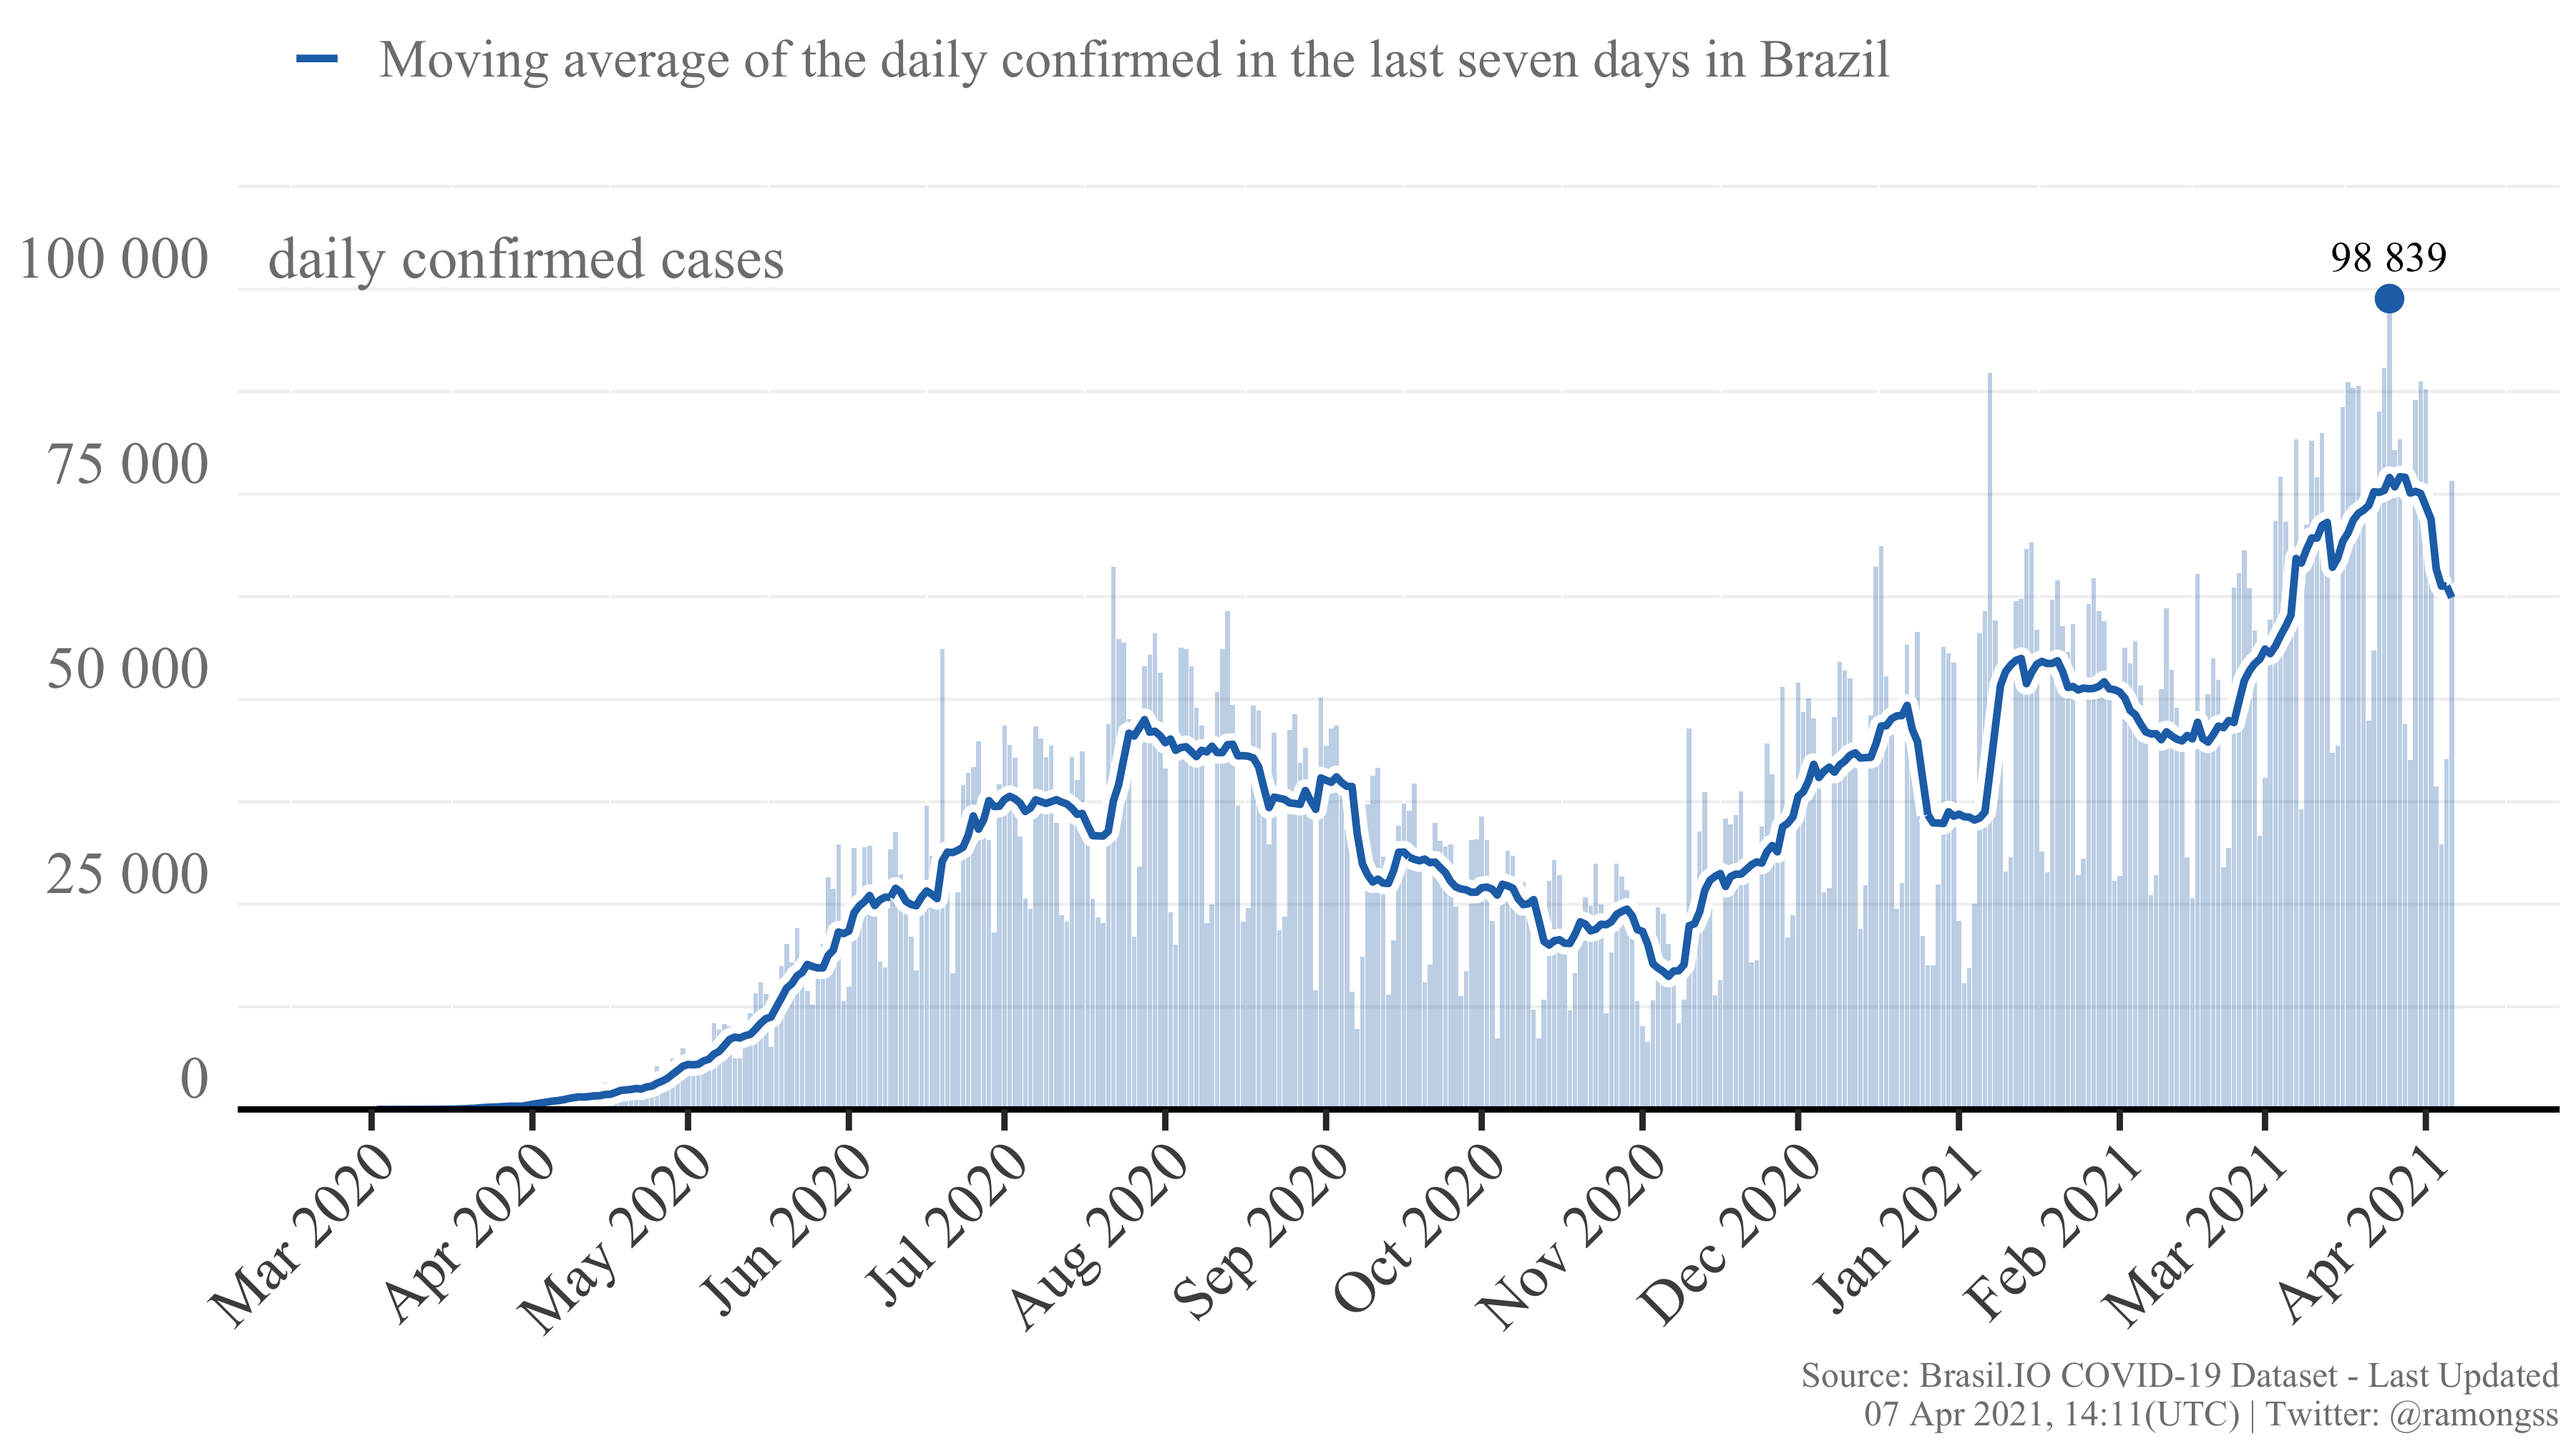
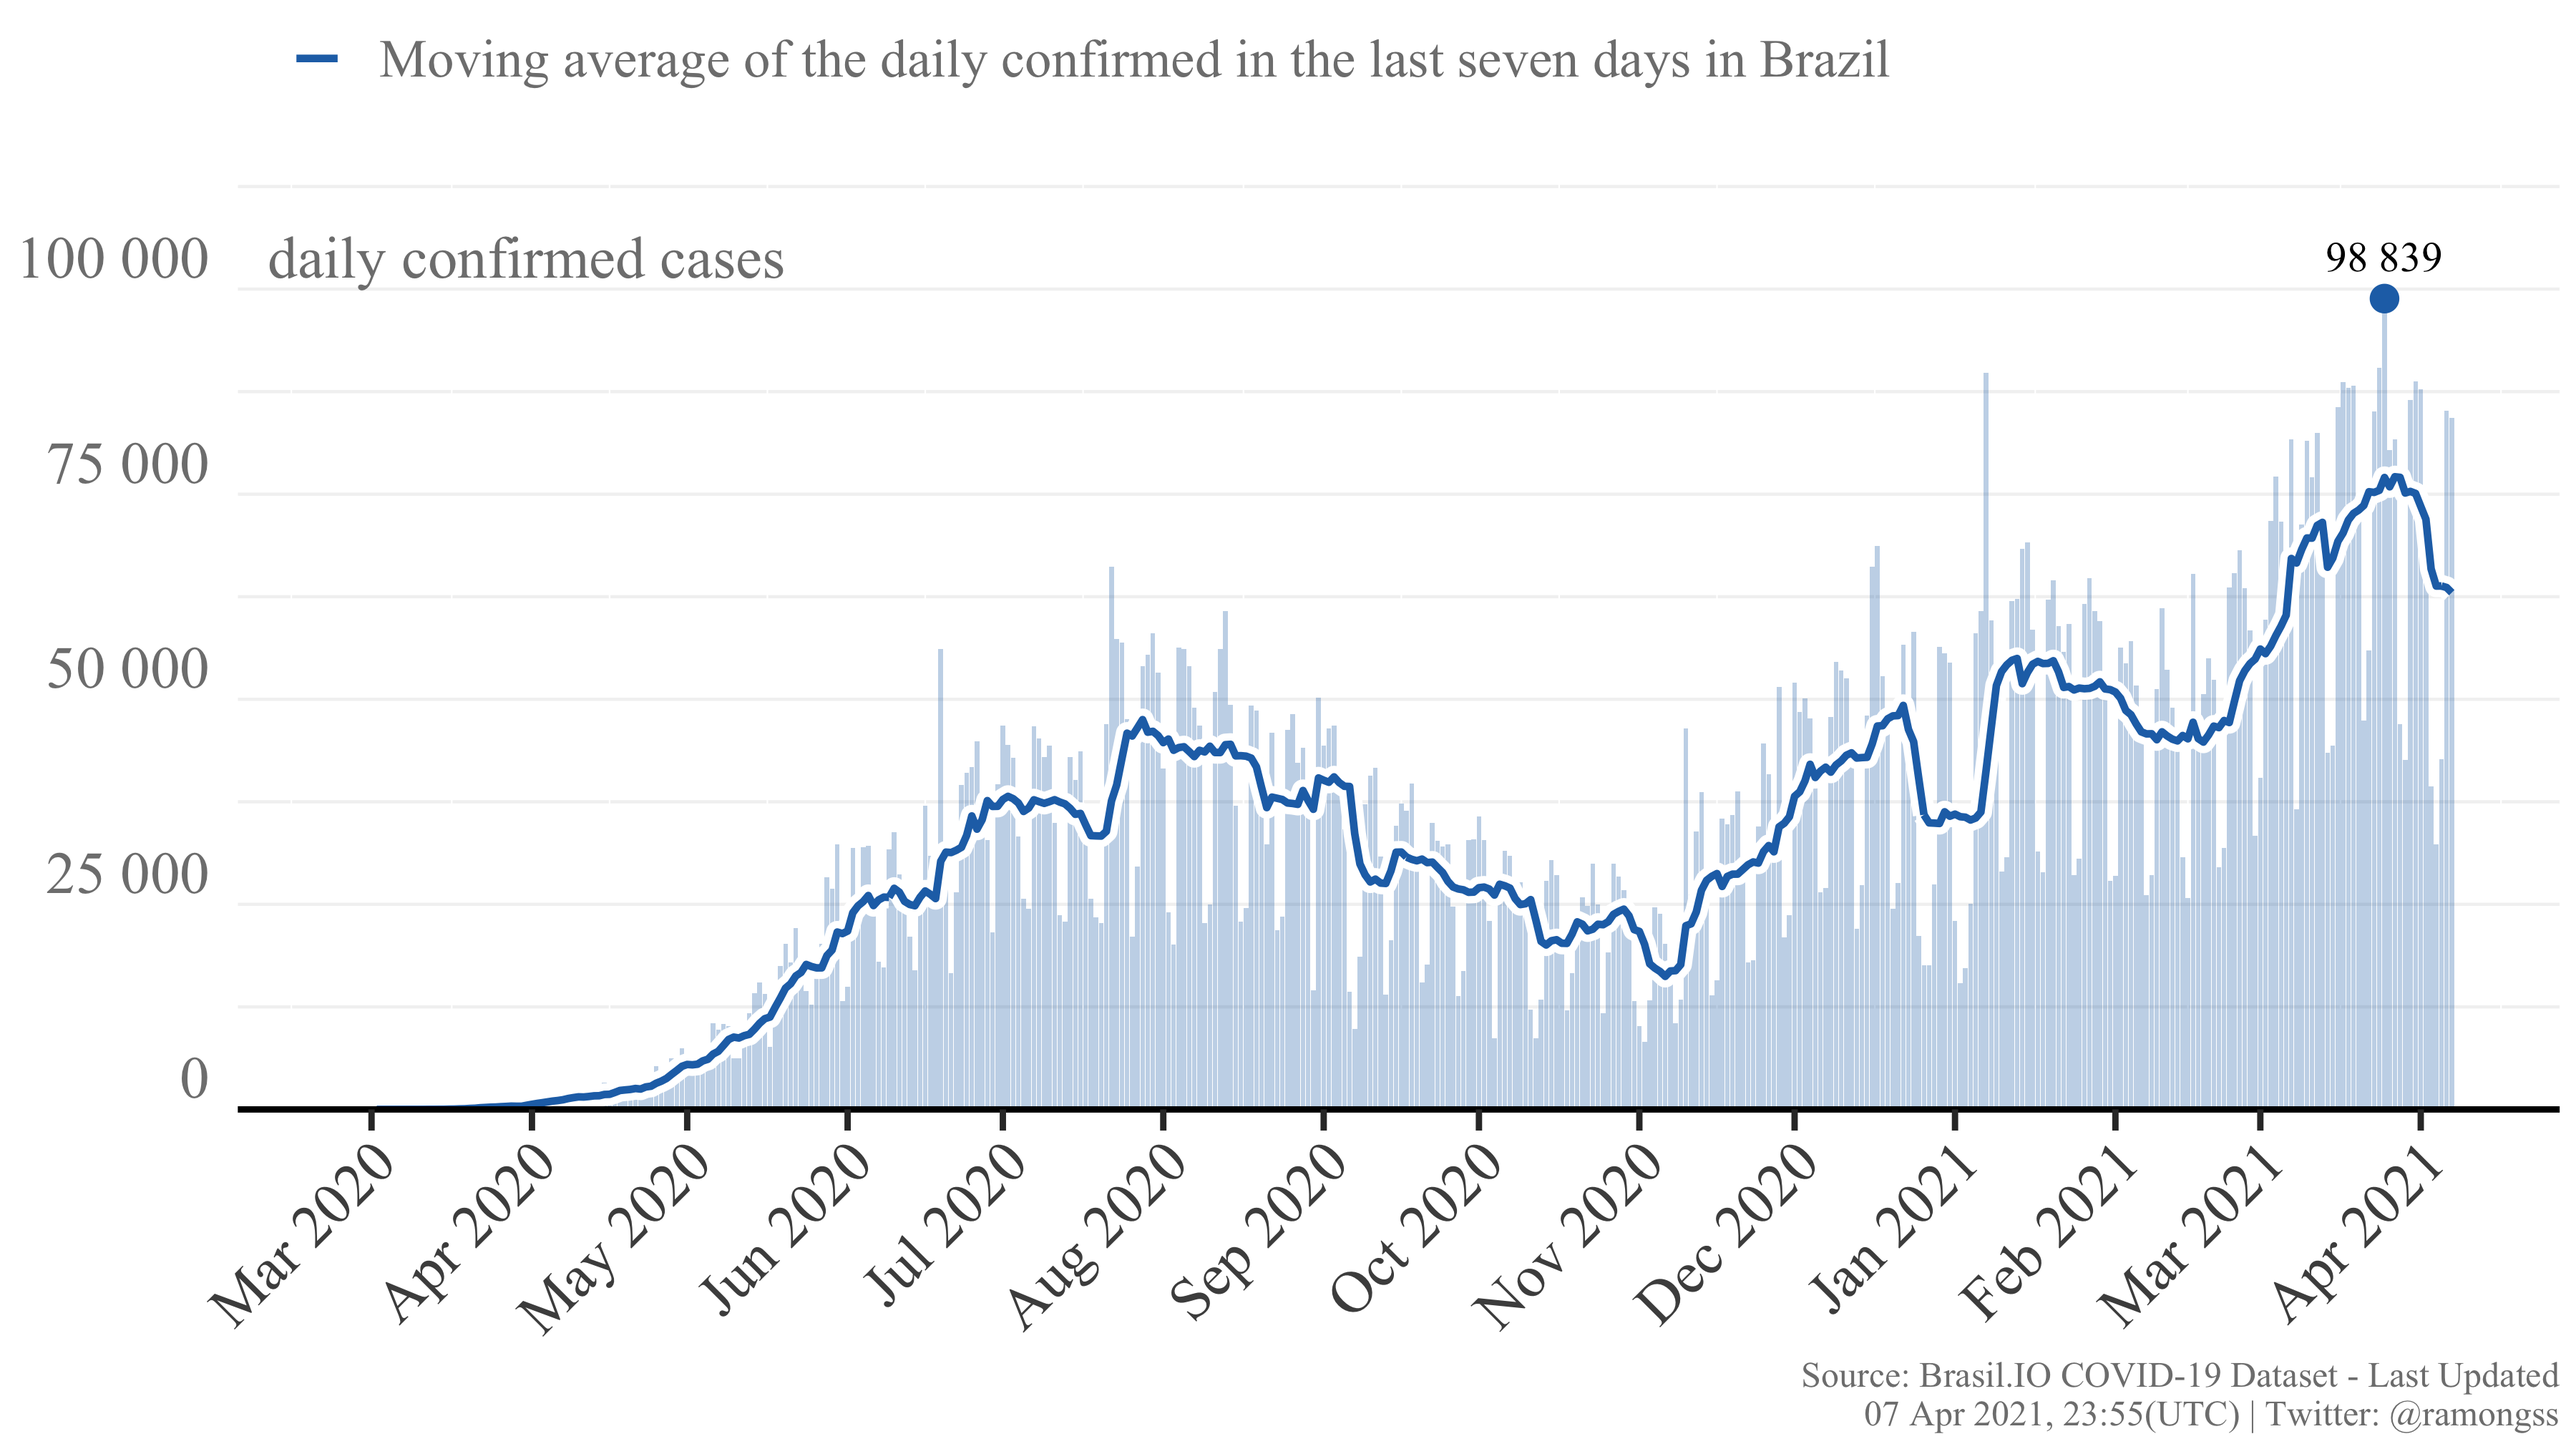
Re-build README.Rmd

diff --git a/README.md b/README.md
@@ -27,8 +27,8 @@ download_brasilio_table <- function(dataset = "covid19", table_name){
 
 ## COVID-19 Confirmed cases
 
-Currently, Brazil has a total of **13,111,454** confirmed cases at **06
-Apr, 2021**, with **76,587** new confirmed cases. The daily maximum
+Currently, Brazil has a total of **13,204,334** confirmed cases at **07
+Apr, 2021**, with **84,315** new confirmed cases. The daily maximum
 incidence was **98,839** confirmed cases at **25 Mar, 2021**. Here
 follows the Figure showing the confirmed case incidence as the bars, and
 the line as the moving average of the last 7 days.
@@ -37,9 +37,9 @@ the line as the moving average of the last 7 days.
 
 ## COVID-19 Deaths
 
-Currently, Brazil has a total of **337,369** deaths at **06 Apr, 2021**,
-with **3,722** new deaths. The daily maximum deaths incidence was
-**3,925** deaths at **31 Mar, 2021**. Here follows the Figure showing
+Currently, Brazil has a total of **341,247** deaths at **07 Apr, 2021**,
+with **3,522** new deaths. The daily maximum deaths incidence was
+**4,068** deaths at **06 Apr, 2021**. Here follows the Figure showing
 the deaths incidence as the bars, and the line as the moving average of
 the last 7 days.
 
@@ -49,4 +49,4 @@ the last 7 days.
 
 This page is daily updated automatically using Github Actions.
 
-*Last update: 07 Apr 2021, 14:11 (UTC).*
+*Last update: 07 Apr 2021, 23:55 (UTC).*
